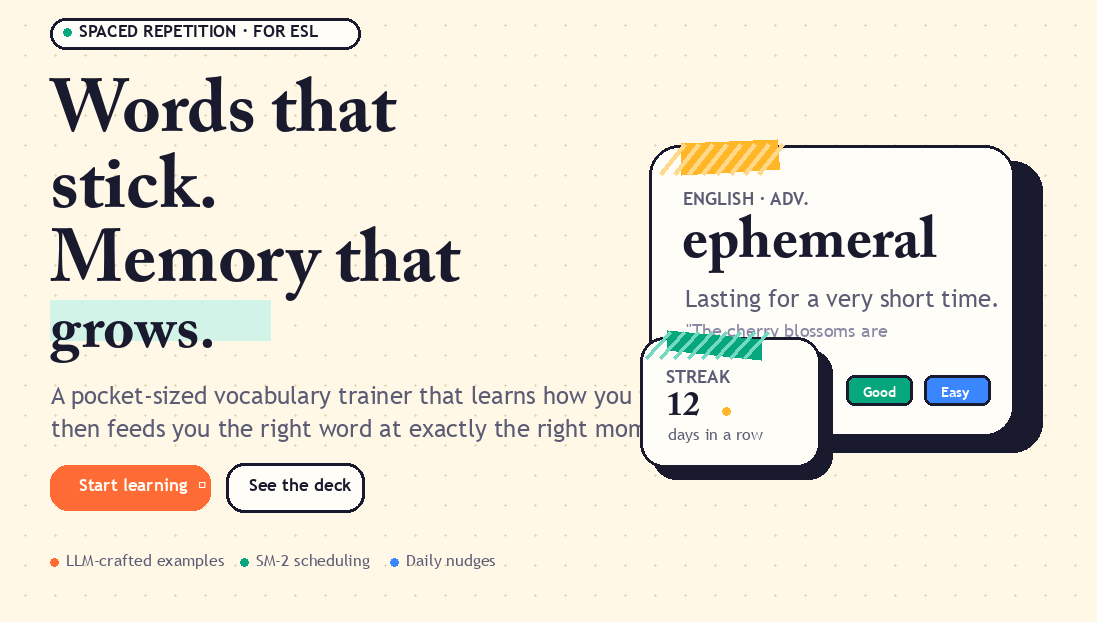
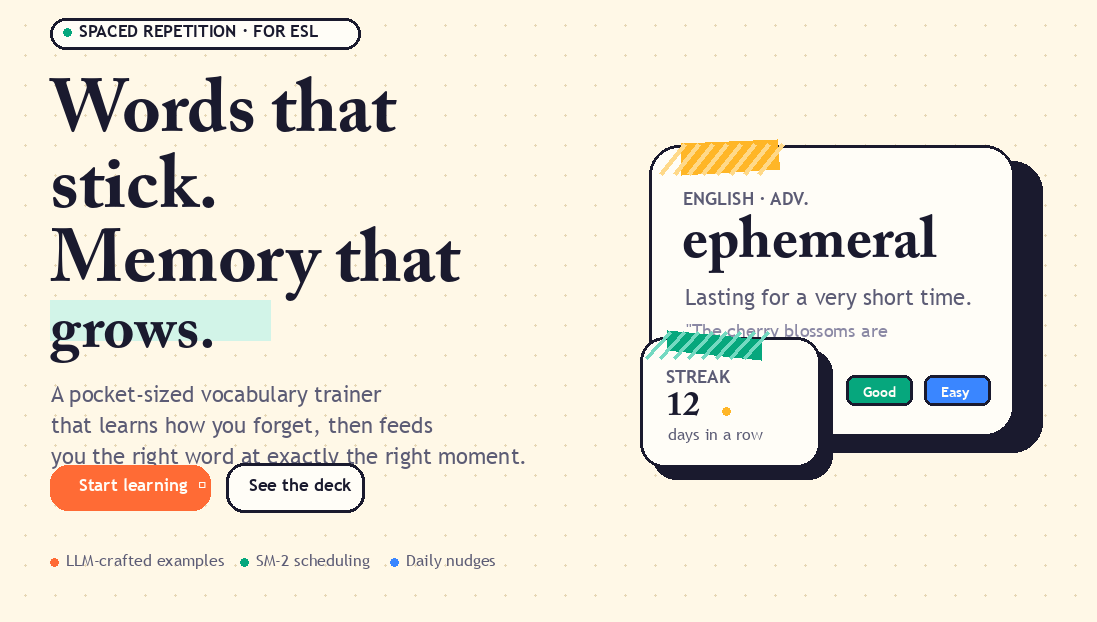
fix(web): wrap og description into three lines

Changed region(s): [[0.031, 0.6109, 0.5889, 0.7637], [0.6199, 0.4582, 0.8988, 0.5193]]

diff --git a/apps/web/scripts/generate_simple_brand_assets.py b/apps/web/scripts/generate_simple_brand_assets.py
@@ -62,7 +62,7 @@ def draw_hero():
 
     serif = font(SERIF_BLACK, 74)
     serif_small = font(SERIF_BLACK, 60)
-    sans = font(SANS, 24)
+    sans = font(SANS, 22)
     sans_bold = font(SANS_BOLD, 22)
     monoish = font(SANS_BOLD, 18)
 
@@ -72,7 +72,11 @@ def draw_hero():
     draw.rectangle((50, 300, 270, 340), fill=MINT)
     draw.text((50, 302), "grows.", font=serif_small, fill=INK)
 
-    body = "A pocket-sized vocabulary trainer that learns how you forget —\nthen feeds you the right word at exactly the right moment."
+    body = (
+        "A pocket-sized vocabulary trainer\n"
+        "that learns how you forget, then feeds\n"
+        "you the right word at exactly the right moment."
+    )
     draw.multiline_text((51, 381), body, font=sans, fill=INK_SOFT, spacing=10)
 
     rounded(draw, (50, 465, 210, 510), 18, ORANGE, outline=ORANGE, width=2)
